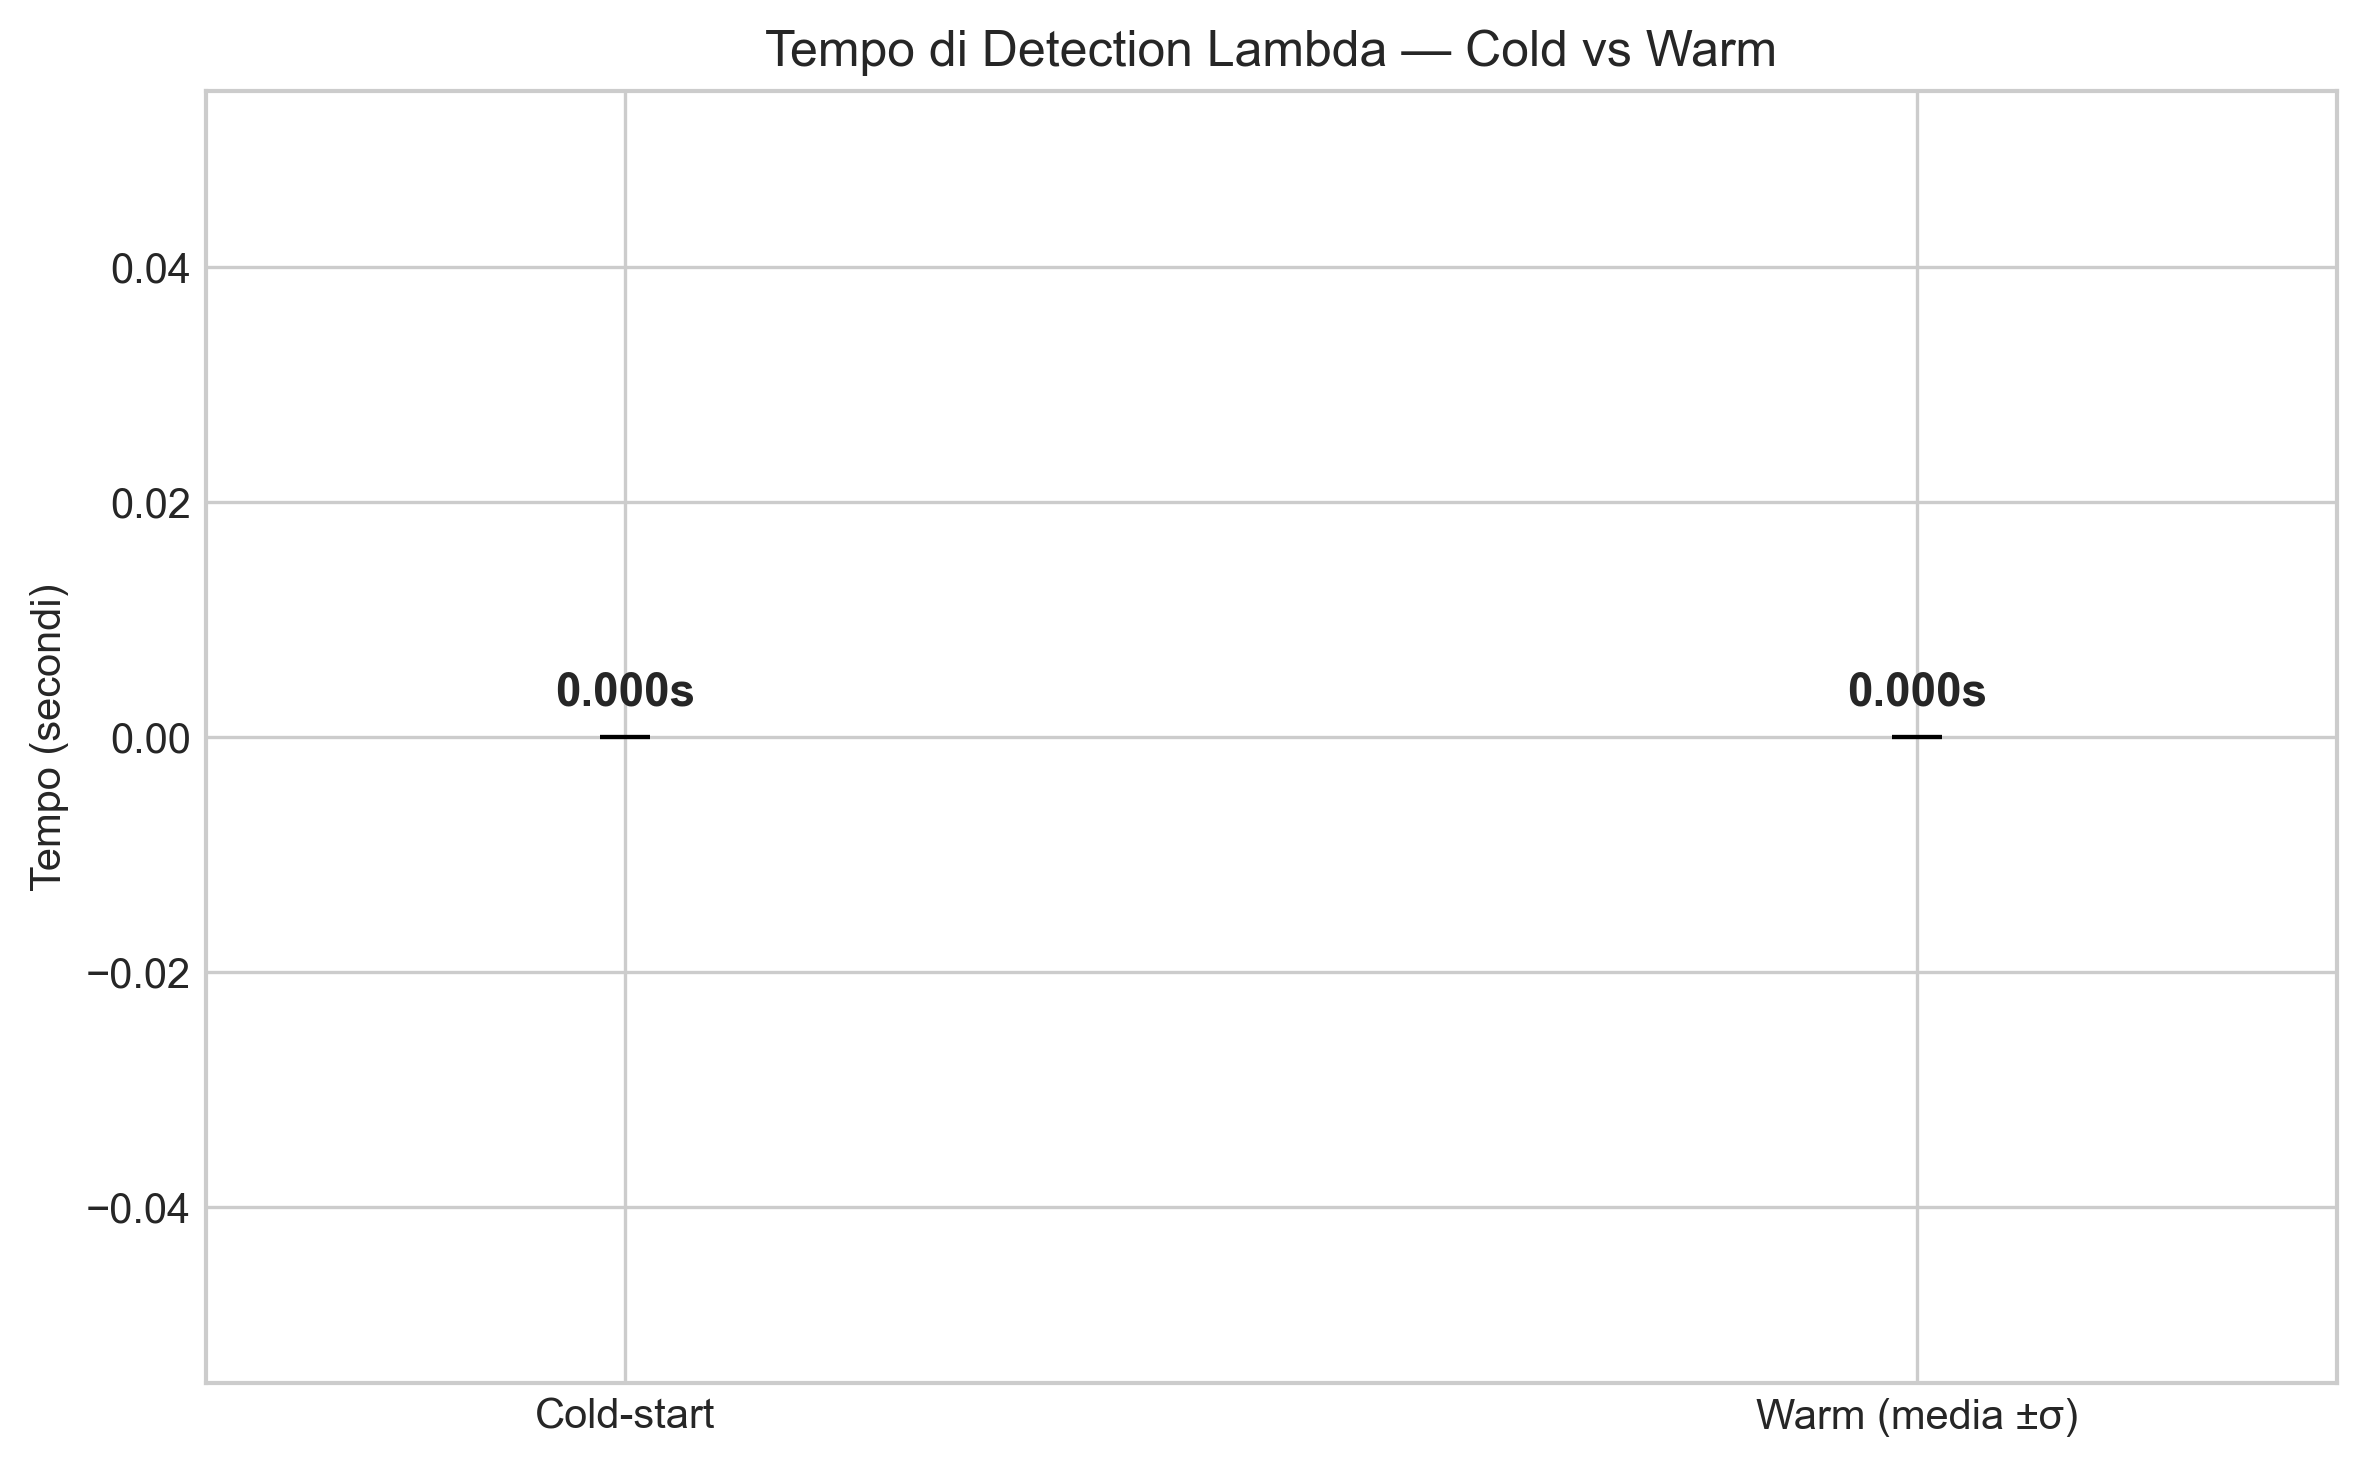
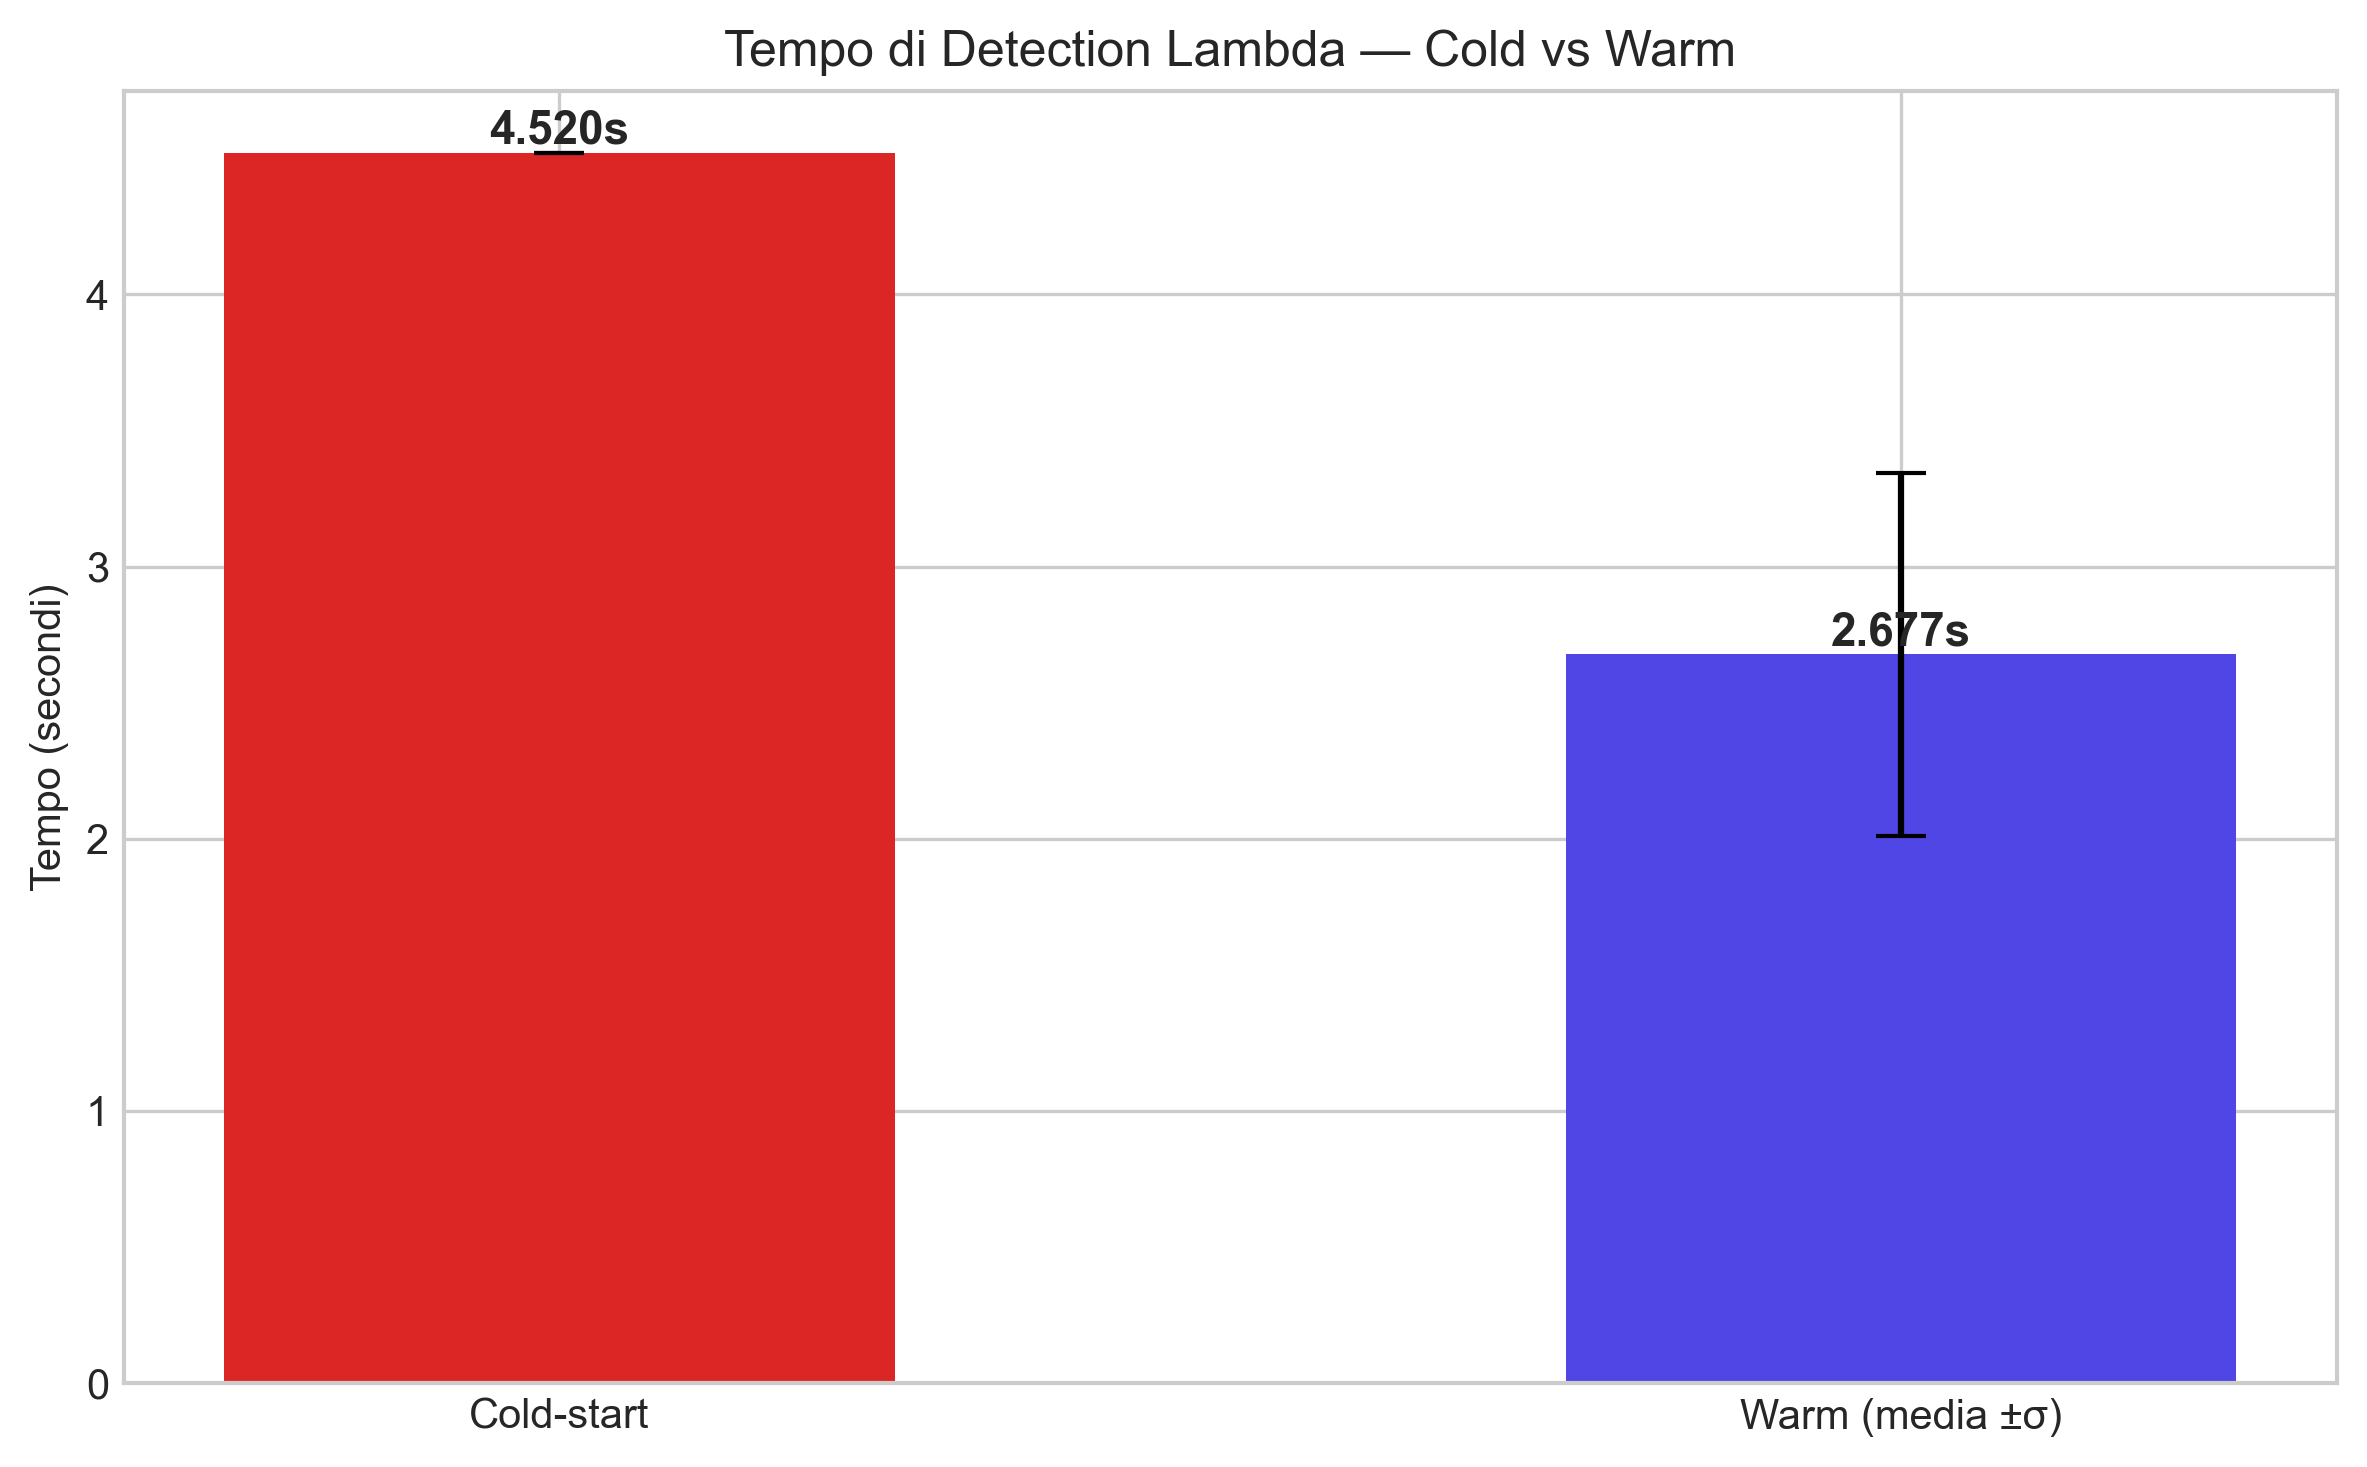
rieseguito benchmark con misurazioni reali del tempo di detection

diff --git a/docs/EXPERIMENT_RESULTS.md b/docs/EXPERIMENT_RESULTS.md
@@ -1,6 +1,6 @@
 # Risultati Esperimenti — Cloud Active Defense
 
-*Generato automaticamente da benchmark.py — 2026-05-14 18:15:04*
+*Generato automaticamente da benchmark.py — 2026-05-14 18:24:59*
 
 ---
 
@@ -12,9 +12,9 @@ caldo); le successive 10 rappresentano il regime stazionario ("warm").
 
 | Metrica | Valore |
 |---|---|
-| Cold-start | 0.000 s |
-| Warm — media (10 invocazioni) | 0.000 s |
-| Warm — deviazione standard | 0.000 s |
+| Cold-start | 4.520 s |
+| Warm — media (10 invocazioni) | 2.677 s |
+| Warm — deviazione standard | 0.666 s |
 
 ![Detection Time](charts/detection_time.png)
 
@@ -54,9 +54,9 @@ generazione PDF sottostante.
 
 | Condizione | Tempo medio |
 |---|---|
-| Senza firma | 0.4 ms |
-| Con firma RSA-2048 | 545.7 ms |
-| Overhead netto | 545.3 ms (+129831.0%) |
+| Senza firma | 0.1 ms |
+| Con firma RSA-2048 | 566.2 ms |
+| Overhead netto | 566.1 ms (+808714.3%) |
 
 ![Overhead Firma](charts/signature_overhead.png)
 
